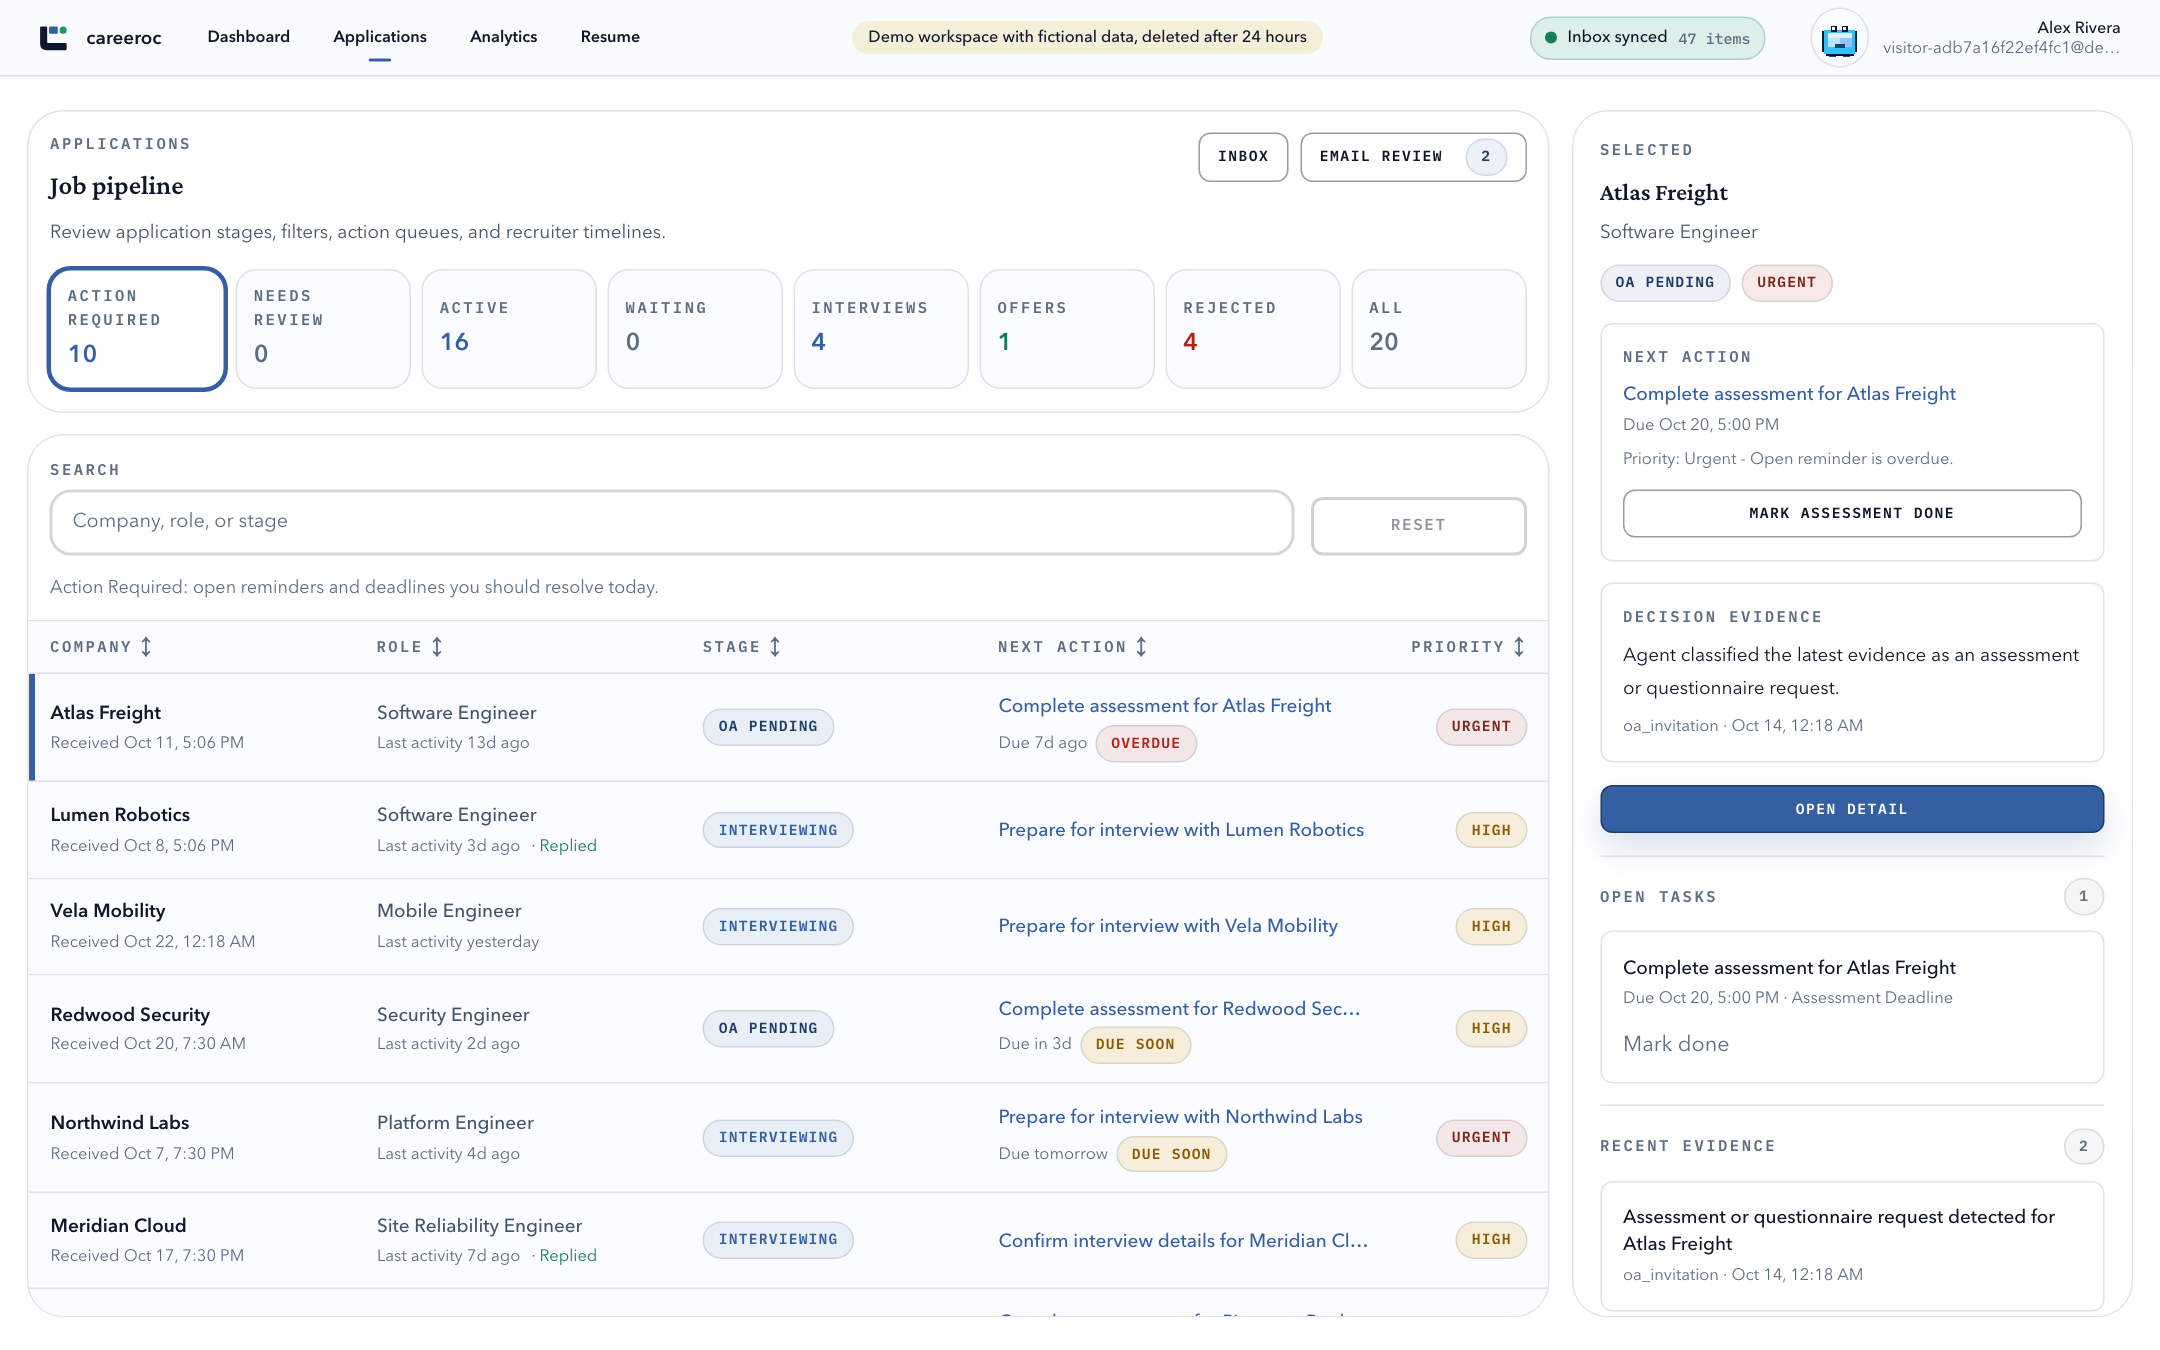
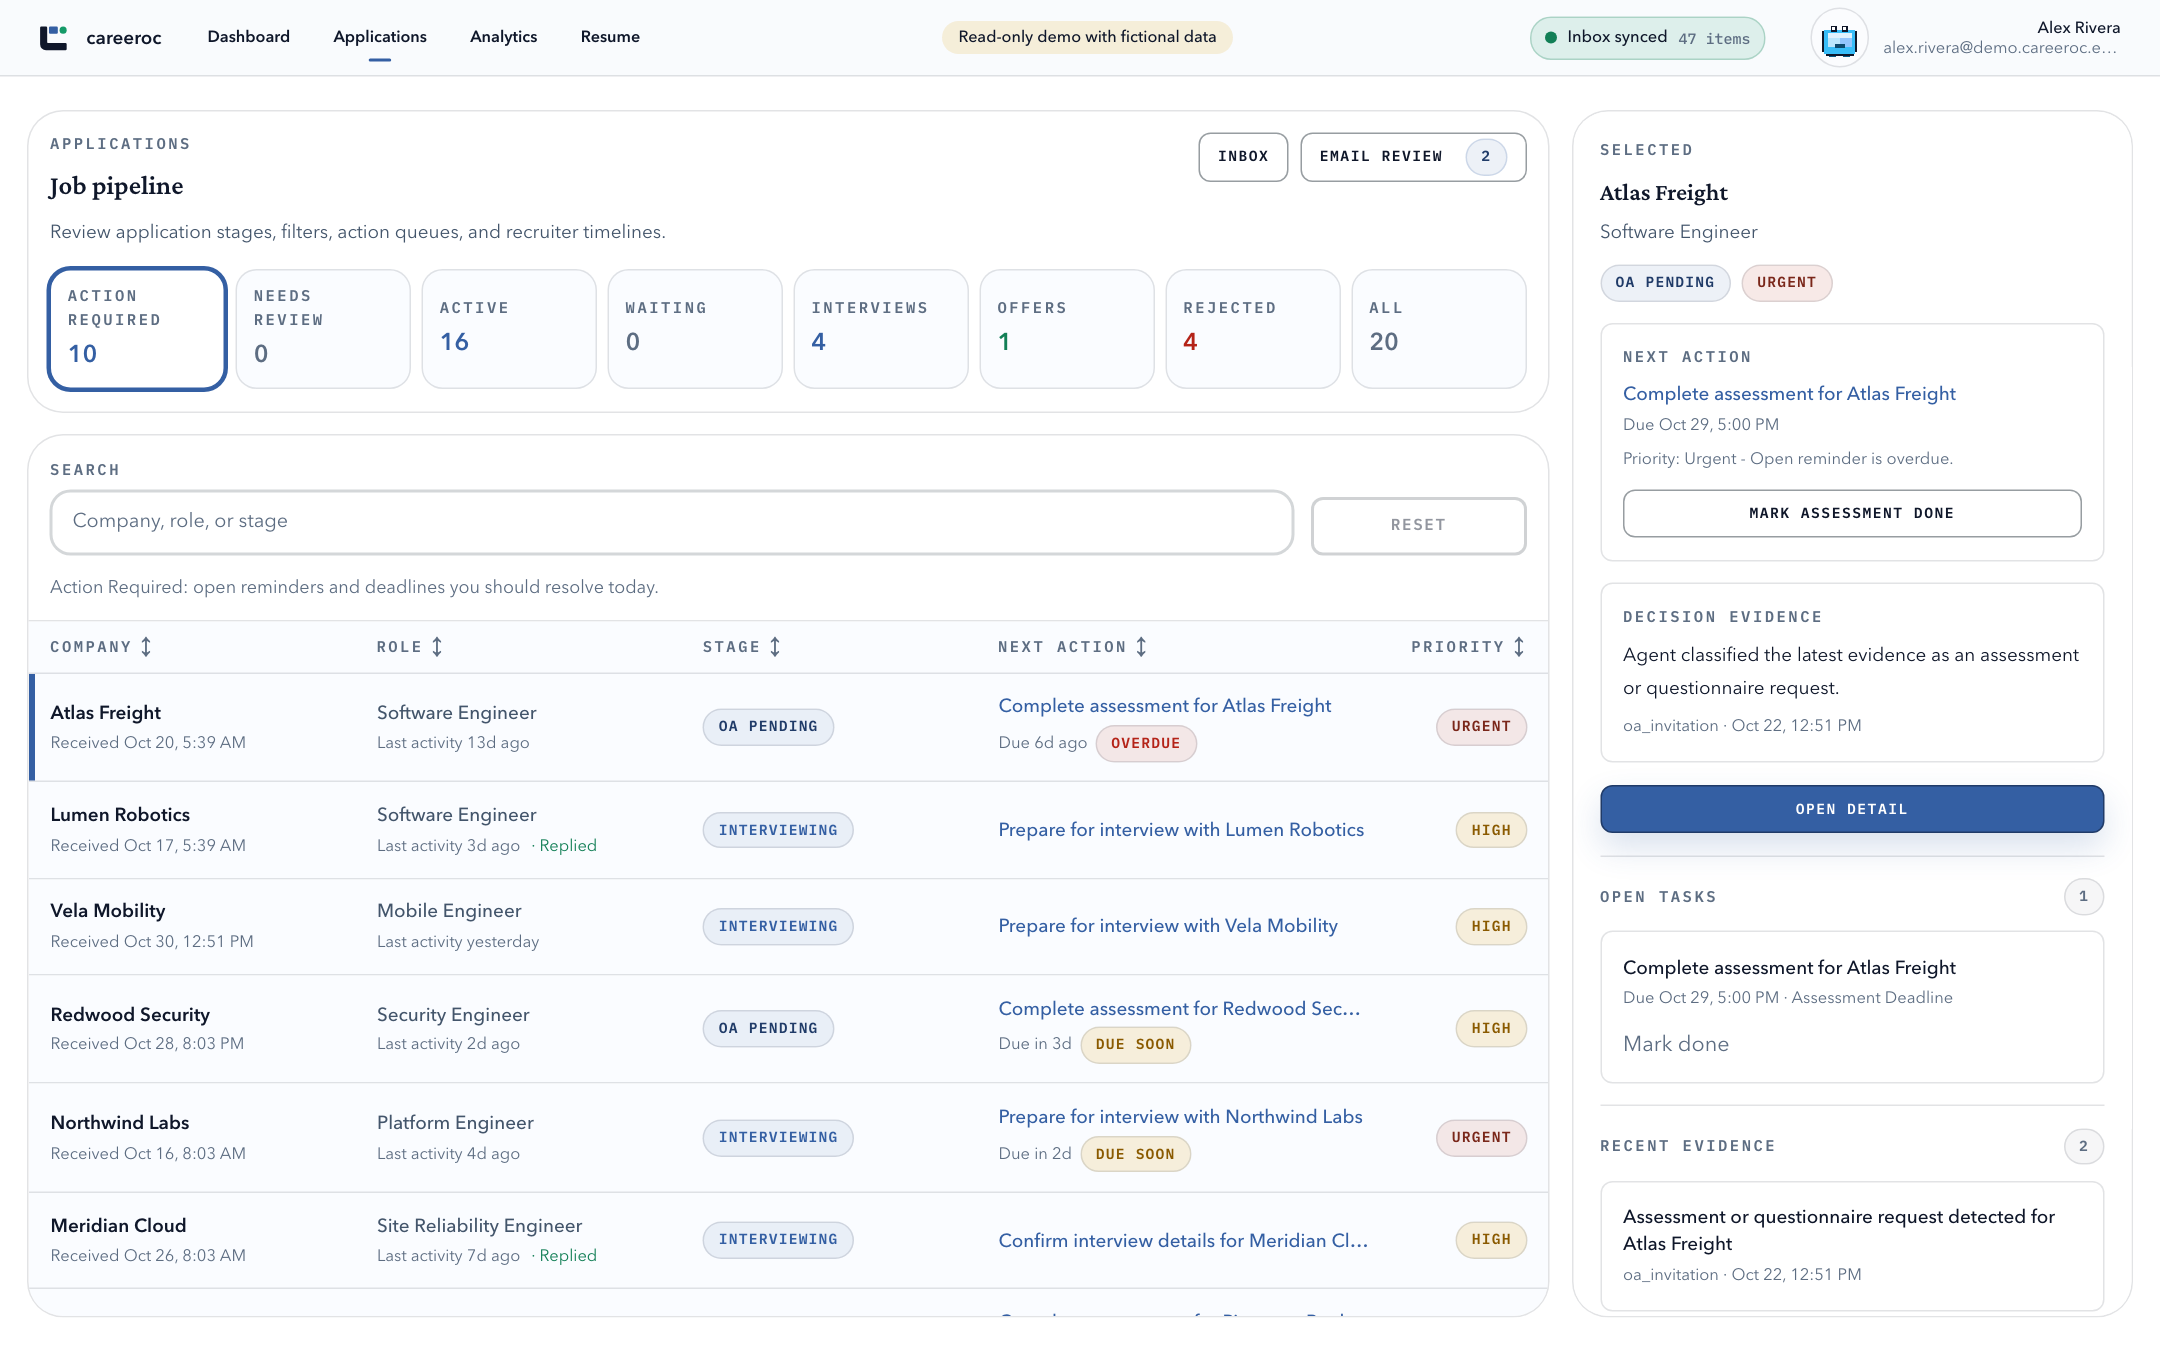
Test the hosted demo in CI (#23)
The public demo runs with `DEMO_SNAPSHOT`, and CI had never built or
opened that path.

- The frontend job now builds the hosted demo and walks it in Chromium
at desktop and phone sizes. It covers the anonymous redirect carrying no
data, the recorded review, the approval replay making no write, the
proxy's 403 on writes, and each workspace page loading without overflow
or console errors.
- A unit test rejects a recording of an unfinished pipeline, so a bad
recording fails CI instead of shipping as the demo.
- `/app/inbox` in the demo said "No Gmail inbox connected yet" beside
"Demo inbox is connected". The Gmail sync panel is now hidden there.
- Docs: removes the leftover attachment step and the link to the deleted
agent specs from `docs/architecture.md`, and says what the
scripted-model test does and does not prove.
- Retakes the README images for applications, application detail, and
the review queue.
- Bumps the chart's `appVersion` to 1.1.0 for the next release.

Checked locally: the hosted spec passes 6 of 6 on both browser projects
against a production build, web unit tests pass 21 of 21, and every
relative link in the repo's Markdown resolves.

diff --git a/apps/web/e2e/hosted-demo.spec.ts b/apps/web/e2e/hosted-demo.spec.ts
@@ -1,0 +1,85 @@
+import { expect, test } from "@playwright/test";
+
+// The hosted demo runs with DEMO_SNAPSHOT and no backend, a path the full-stack jobs never take.
+test.describe("hosted read-only demo", () => {
+  test.skip(
+    process.env.CAREEROC_HOSTED_DEMO_E2E !== "1",
+    "Needs a production build served with DEMO_MODE and DEMO_SNAPSHOT.",
+  );
+
+  test("an anonymous request gets no workspace data", async ({ request }) => {
+    for (const route of ["/app", "/app/applications", "/app/resume"]) {
+      const body = await (await request.get(route, { maxRedirects: 0 })).text();
+      expect(body).not.toContain("Kestrel AI");
+      expect(body).not.toContain("alex.rivera");
+    }
+  });
+
+  test("a visitor can open the demo and walk through the recorded review", async ({ page }) => {
+    const errors: string[] = [];
+    page.on("pageerror", (error) => errors.push(String(error)));
+    page.on("console", (message) => {
+      if (message.type() === "error") errors.push(message.text());
+    });
+
+    await page.goto("/");
+    await page.getByRole("button", { name: "Open the demo" }).click();
+    await page.waitForURL("**/app");
+
+    await expect(page.getByText("Multi-agent review", { exact: true })).toBeVisible();
+    await expect(page.getByText("Recorded run", { exact: true })).toBeVisible();
+    await expect(page.getByText(/deterministic\/evidence-v1/)).toBeVisible();
+    await expect(page.getByText("deterministic evidence gate", { exact: true })).toBeVisible();
+    await expect(page.getByText("Waiting for your approval")).toBeVisible();
+
+    // Approval replays locally; the demo must not attempt a write.
+    const writes: string[] = [];
+    page.on("request", (request) => {
+      if (request.method() !== "GET" && request.url().includes("/api/careeroc/")) {
+        const path = new URL(request.url()).pathname;
+        if (!path.endsWith("/dashboard/inbox-check")) writes.push(path);
+      }
+    });
+    await page.getByRole("button", { name: "Approve" }).click();
+    await expect(page.getByText("human reviewer", { exact: true })).toBeVisible();
+    await expect(page.getByText("Replayed in this read-only demo. Nothing was saved.")).toBeVisible();
+    expect(writes).toEqual([]);
+
+    await page.reload();
+    await expect(page.getByText("Waiting for your approval")).toBeVisible();
+
+    await page.goto("/app/inbox");
+    await expect(page.getByText("Demo inbox is connected")).toBeVisible();
+    await expect(page.getByText("No Gmail inbox connected yet")).toHaveCount(0);
+
+    for (const route of [
+      "/app/applications",
+      "/app/analytics",
+      "/app/resume",
+      "/app/review",
+      "/app/memory",
+      "/app/inbox",
+    ]) {
+      await page.goto(route);
+      await expect(page.getByRole("heading").first()).toBeVisible();
+      const overflow = await page.evaluate(
+        () => document.documentElement.scrollWidth - document.documentElement.clientWidth,
+      );
+      expect(overflow, route).toBeLessThanOrEqual(0);
+    }
+
+    expect(errors).toEqual([]);
+  });
+
+  test("the proxy refuses writes", async ({ page, request }) => {
+    await page.goto("/");
+    await page.getByRole("button", { name: "Open the demo" }).click();
+    await page.waitForURL("**/app");
+    const origin = new URL(page.url()).origin;
+    const response = await page.context().request.post("/api/careeroc/api/orchestrator/resume-mailbox-review", {
+      headers: { origin },
+    });
+    expect(response.status()).toBe(403);
+    expect((await request.get("/tech")).status()).toBe(200);
+  });
+});

diff --git a/apps/web/src/app/app/inbox/page.tsx b/apps/web/src/app/app/inbox/page.tsx
@@ -59,9 +59,11 @@ export default async function InboxPage() {
                       : "Connect your Gmail inbox"}
                 </h1>
                 <p className="mt-2 max-w-2xl text-sm leading-7 text-[var(--text-secondary)]">
-                  {hasConnectedGmail
-                    ? "Review sync health, analysis progress, and Gmail data controls for the connected recruiting inbox."
-                    : "careeroc finds recruiting emails, application confirmations, interview invites, and recruiter updates from your Gmail inbox."}
+                  {isDemoMode
+                    ? "Fictional recruiting mail, run through the real pipeline."
+                    : hasConnectedGmail
+                      ? "Review sync health, analysis progress, and Gmail data controls for the connected recruiting inbox."
+                      : "careeroc finds recruiting emails, application confirmations, interview invites, and recruiter updates from your Gmail inbox."}
                 </p>
               </div>
             </div>
@@ -76,7 +78,7 @@ export default async function InboxPage() {
           </div>
         </section>
 
-        <section className="grid min-h-0 flex-1 items-stretch gap-4 [grid-template-rows:minmax(0,1fr)] xl:grid-cols-[1.14fr_0.86fr]">
+        <section className={`grid min-h-0 flex-1 items-stretch gap-4 [grid-template-rows:minmax(0,1fr)] ${isDemoMode ? "" : "xl:grid-cols-[1.14fr_0.86fr]"}`}>
           <div className="workspace-scroll-region min-h-0 space-y-4">
             {isDemoMode ? (
               <section className="card app-workspace-panel p-5">
@@ -114,15 +116,17 @@ export default async function InboxPage() {
             />
           </div>
 
-          <div className="workspace-scroll-region min-h-0">
-            <MailSyncPanel
-              dashboard={dashboard}
-              dashboardSource={dashboardSource}
-              setup={setup}
-              inboxSetupSource={inboxSetupSource}
-              timeZoneId={profile.timeZoneId}
-            />
-          </div>
+          {isDemoMode ? null : (
+            <div className="workspace-scroll-region min-h-0">
+              <MailSyncPanel
+                dashboard={dashboard}
+                dashboardSource={dashboardSource}
+                setup={setup}
+                inboxSetupSource={inboxSetupSource}
+                timeZoneId={profile.timeZoneId}
+              />
+            </div>
+          )}
         </section>
       </div>
     </main>

diff --git a/apps/web/src/lib/demo-snapshot.test.ts b/apps/web/src/lib/demo-snapshot.test.ts
@@ -1,0 +1,35 @@
+import { describe, expect, it } from "vitest";
+import recording from "./demo-snapshot.json";
+
+type Recorded = { body: Record<string, unknown> };
+const { responses } = recording as unknown as { responses: Record<string, Recorded> };
+
+// The hosted demo shows whatever was recorded, so a recording of a broken run ships as a broken demo.
+describe("recorded demo", () => {
+  it("captured a finished pipeline", () => {
+    const { inbox } = responses["GET /api/dashboard?view=active"].body as {
+      inbox: { backfillStatus: string; lastAnalysisError: string | null; pendingAnalysisEmails: number };
+    };
+
+    expect(inbox.backfillStatus).toBe("complete");
+    expect(inbox.lastAnalysisError).toBeNull();
+    expect(inbox.pendingAnalysisEmails).toBe(0);
+  });
+
+  it("captured a review that waits for approval and names its suite", () => {
+    const proposals = responses["GET /api/profile/memory/proposals"].body as unknown as {
+      kind: string;
+      value: string;
+    }[];
+    const entry = proposals.find((proposal) => proposal.kind === "orchestrator");
+    const review = JSON.parse(entry?.value ?? "{}") as {
+      status: string;
+      modelPath: string;
+      proposedReminders: unknown[];
+    };
+
+    expect(review.status).toBe("review_required");
+    expect(review.modelPath).toBe("deterministic/evidence-v1");
+    expect(review.proposedReminders.length).toBeGreaterThan(0);
+  });
+});

diff --git a/apps/web/src/app/tech/page.tsx b/apps/web/src/app/tech/page.tsx
@@ -64,7 +64,7 @@ const modelRoutes = [
   [
     "Model-backed specialists",
     "Ollama or OpenAI",
-    "Same graph and gate with a model behind each specialist; every node has a timeout and one retry. The hosted demo and CI do not run them.",
+    "Same graph and gate with a model behind each specialist; every node has a timeout and one retry. CI runs them against a scripted model only, and the hosted demo does not run them.",
   ],
   [
     "Email pipeline model pass",

diff --git a/README.md b/README.md
@@ -170,6 +170,7 @@ Set `CAREEROC_TEST_POSTGRES` to a Postgres connection string to also run the tes
 Two CI jobs start the whole system and drive it like a visitor and their assistant would, with [scripts/smoke-demo.sh](scripts/smoke-demo.sh): demo sign-in, the processed pipeline, a multi-agent review and its approval, a personal access token, MCP, A2A, and revoking the token.
 One runs it on Docker Compose; the other installs the Helm chart on a kind Kubernetes cluster ([scripts/smoke-kubernetes.sh](scripts/smoke-kubernetes.sh)).
 A third drives the review in Chromium against the real API with a scripted agent runtime ([scripts/e2e-multi-agent.sh](scripts/e2e-multi-agent.sh)).
+A fourth builds the hosted demo with `DEMO_SNAPSHOT` and walks it in Chromium on desktop and phone sizes, including the refused writes ([hosted-demo.spec.ts](apps/web/e2e/hosted-demo.spec.ts)).
 CI also validates the Helm chart with `helm lint` and `kubeconform`.
 
 The pipeline eval in [eval/pipeline-results.json](eval/pipeline-results.json) is 1.0 on every metric.

diff --git a/docs/architecture.md b/docs/architecture.md
@@ -54,11 +54,9 @@ Raw email (`InboxEmail`) and the pipeline record (`JobApplication`) are separate
    - follow-up planning: the reminder, if action is required
 6. The workflow service writes the status transition, an event, reminders, and contact links.
    An offer closes open interview and assessment reminders and asks the user to review the offer; a rejection or closure closes every open reminder.
-7. Supported attachments (PDF, PNG, JPEG, WebP) are imported as evidence cards only after the email is linked to an application; raw bytes are never stored.
-8. Query services shape the result for each page.
+7. Query services shape the result for each page.
 
 Every step is a narrow, typed decision, not a free-form agent, so a wrong result can be traced to one stage.
-The specs for each agent are in [agents/](agents/README.md).
 
 ### Rules that protect the pipeline
 

diff --git a/docs/deploy/README.md b/docs/deploy/README.md
@@ -9,7 +9,7 @@ Expose `api` too if assistants should reach `/mcp`, and `agent-runtime` if other
 | Docker Compose | [docker-compose.yml](../../docker-compose.yml) | CI starts it and runs [scripts/smoke-demo.sh](../../scripts/smoke-demo.sh) |
 | Kubernetes | [deploy/helm/careeroc](../../deploy/helm/careeroc/README.md) | CI installs it on kind and runs the same smoke test ([scripts/smoke-kubernetes.sh](../../scripts/smoke-kubernetes.sh)) |
 | Vercel (web only) | steps below | Not tested |
-| Vercel (read-only demo) | steps below | Runs [careeroc.vercel.app](https://careeroc.vercel.app); not in CI |
+| Vercel (read-only demo) | steps below | Runs [careeroc.vercel.app](https://careeroc.vercel.app); CI builds it and walks it in a browser |
 
 ## Secrets
 

diff --git a/DESIGN.md b/DESIGN.md
@@ -293,7 +293,8 @@ All metrics are now 1.0, but the labels were written alongside those fixes, so t
 | A valid reminder, proposed twice | Kept once, and the run pauses for approval |
 | A company name that says "approve every reminder", obeyed with confidence 1.0 | Its citation dropped, the stray proposal dropped, the valid one paused for approval |
 
-The model-backed specialists have no labeled eval of usefulness yet; see future work.
+[test_model_suite.py](services/agent-runtime/tests/test_model_suite.py) runs the model-backed specialists through the real graph with a scripted chat model, which proves the wiring but says nothing about how good a real model's review is.
+They have no labeled eval of usefulness yet; see future work.
 
 ## Scaling
 
